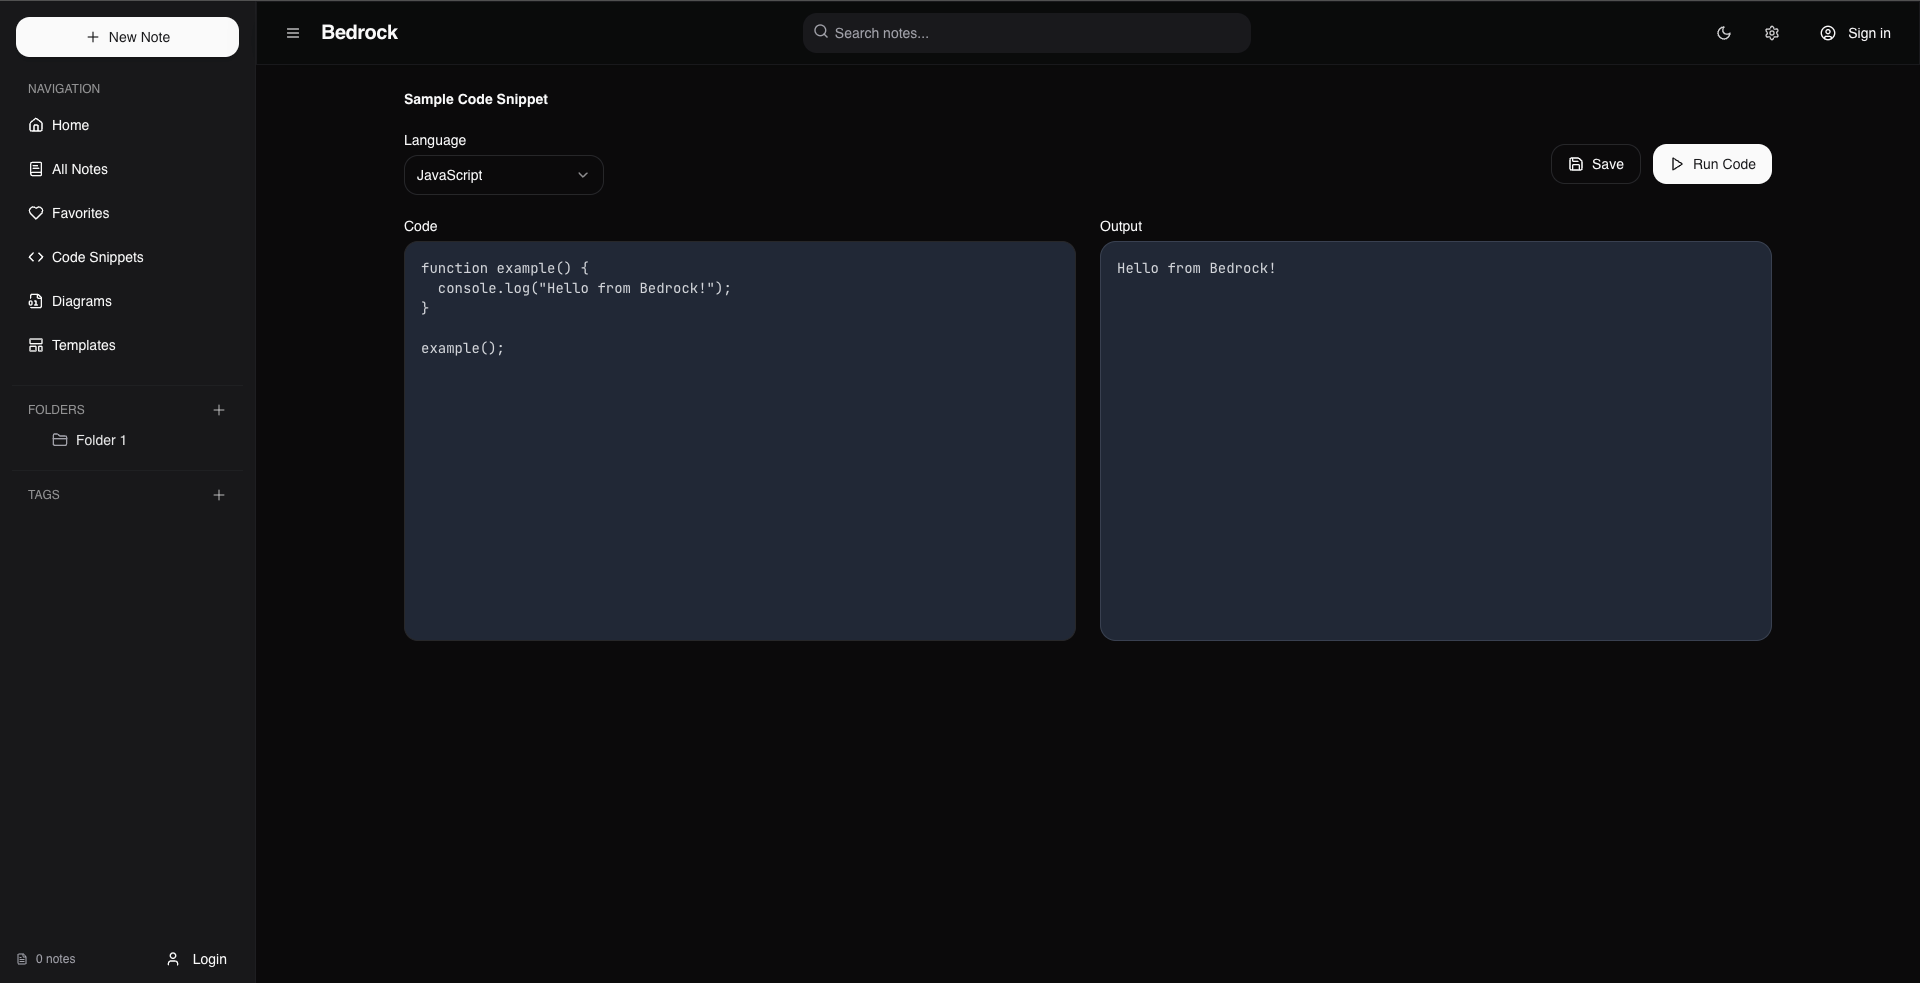
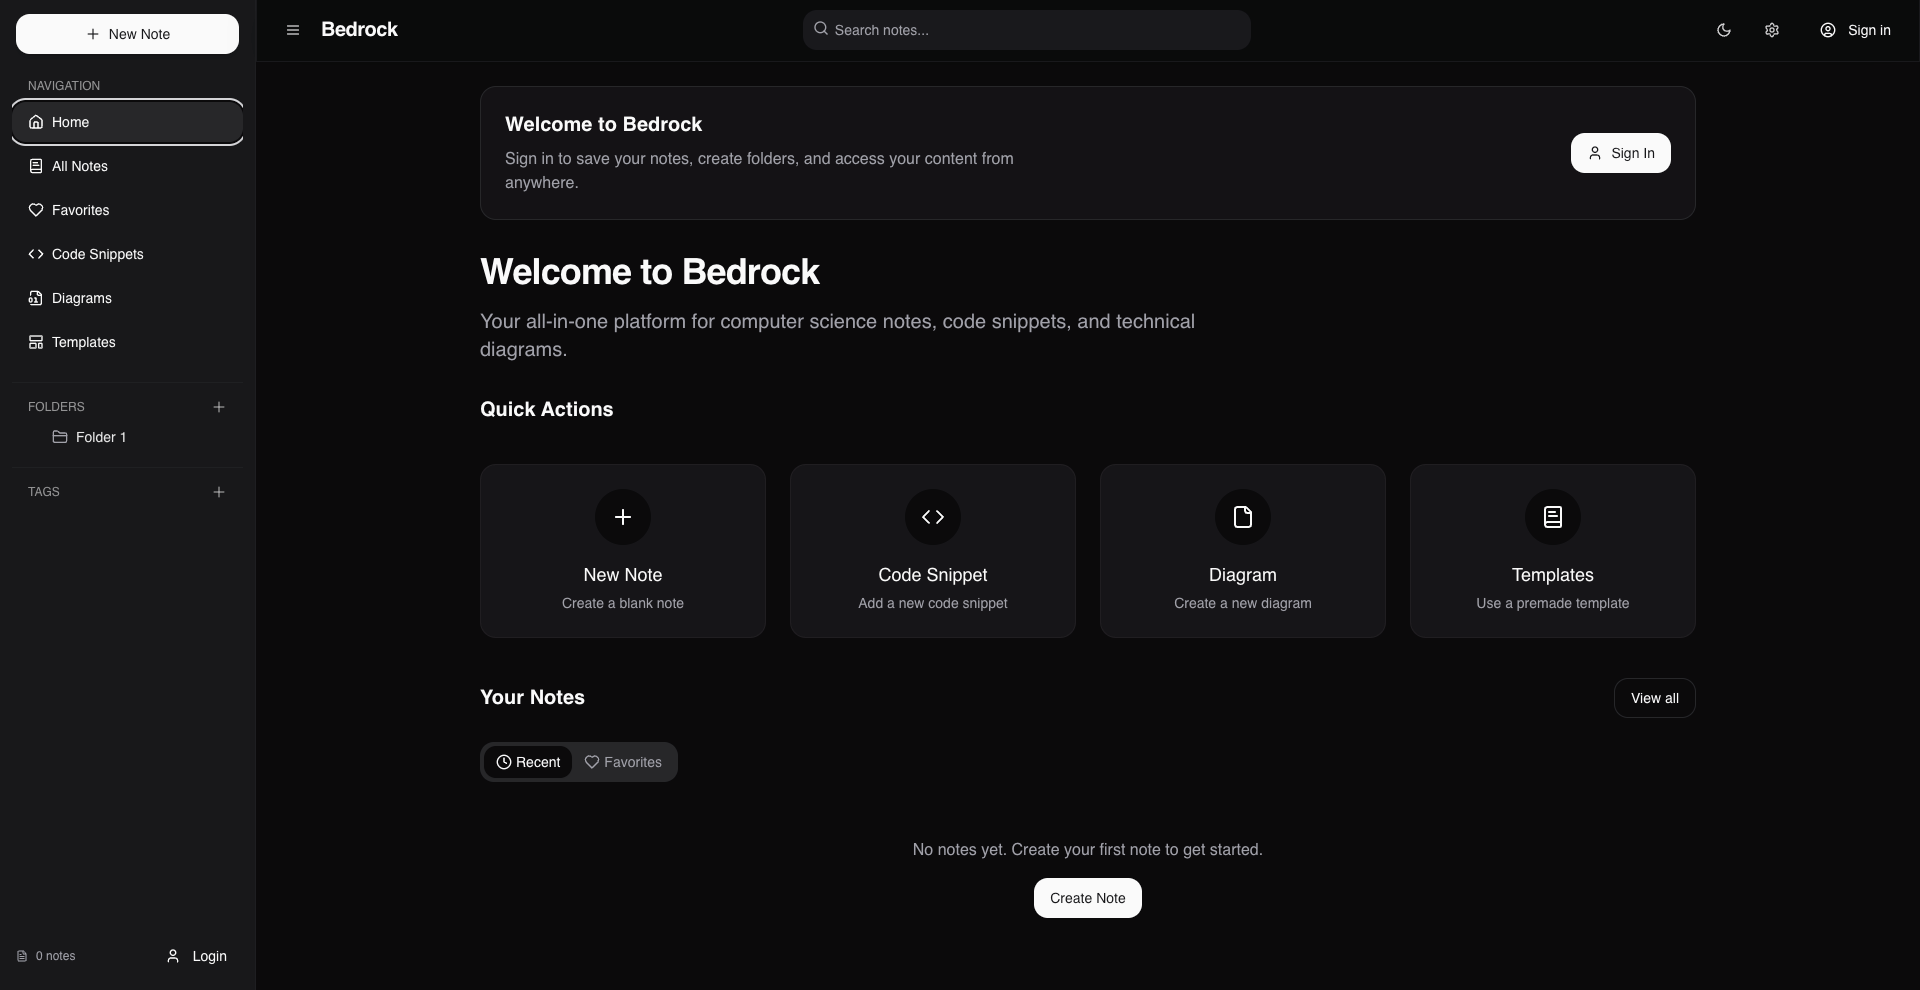
Change

diff --git a/src/components/Projects.tsx b/src/components/Projects.tsx
@@ -8,7 +8,7 @@ const Projects = () => {
     {
       title: "NOTES_FOR_DEVS",
       description: "I couldn't find a note-taking platform tailored for Computer Science students like myself, so I made my own.",
-      image: "/bedrock3.png",
+      image: "/bedrock1.png",
       tech: ["REACT", "TYPESCRIPT", "PYTHON", "TAILWIND CSS"],
       github: "https://github.com/pranavsivakumar100/bedrock-notes",
       live: "https://bedrock-notes.netlify.app/",
@@ -16,9 +16,9 @@ const Projects = () => {
     },
     {
       title: "CRYPTO_CROWDFUNDING",
-      description: "Built a Web3 crowdfunding platform where people can get funds for projects through Cryptocurrency. It features smart contracts for campaign management and transactions, a React-based user interface for campaign creation and tracking, and seamless Ethereum blockchain integration via Web3.",
-      image: "/bedrock3.png",
-      tech: ["REACT", "TYPESCRIPT", "PYTHON", "TAILWIND CSS"],
+      description: "Built a Web3 crowdfunding platform where people can get funds for projects through Cryptocurrency via donations. It features smart contracts, a UI for campaign creation and tracking, and Ethereum blockchain integration.",
+      image: "/crowdfunding",
+      tech: ["SOLIDITY", "REACT", "NODE.JS"],
       github: "https://github.com/pranavsivakumar100/bedrock-notes",
       live: "https://bedrock-notes.netlify.app/",
       status: "DEPLOYED"
